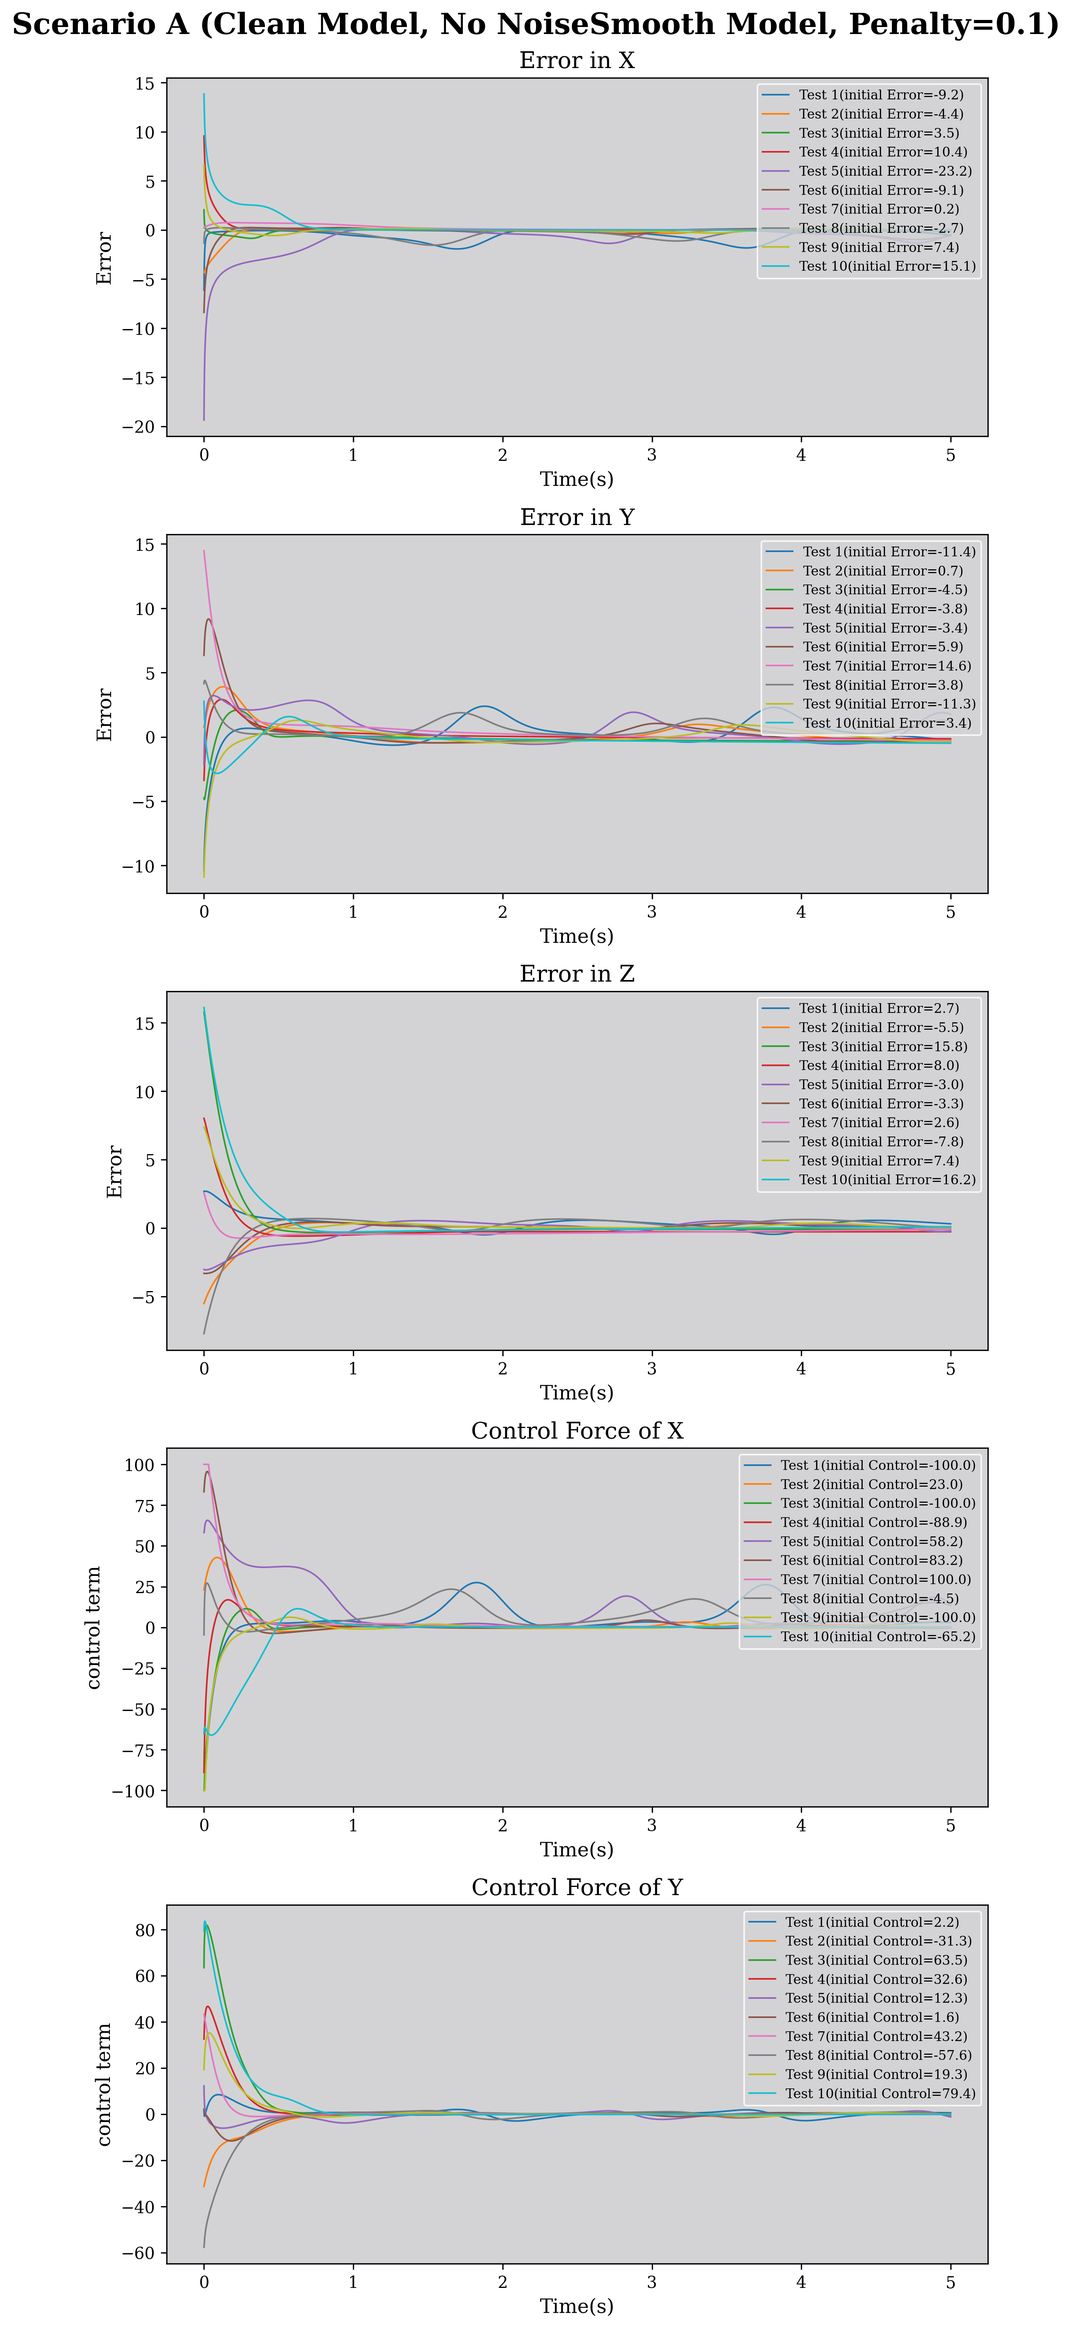
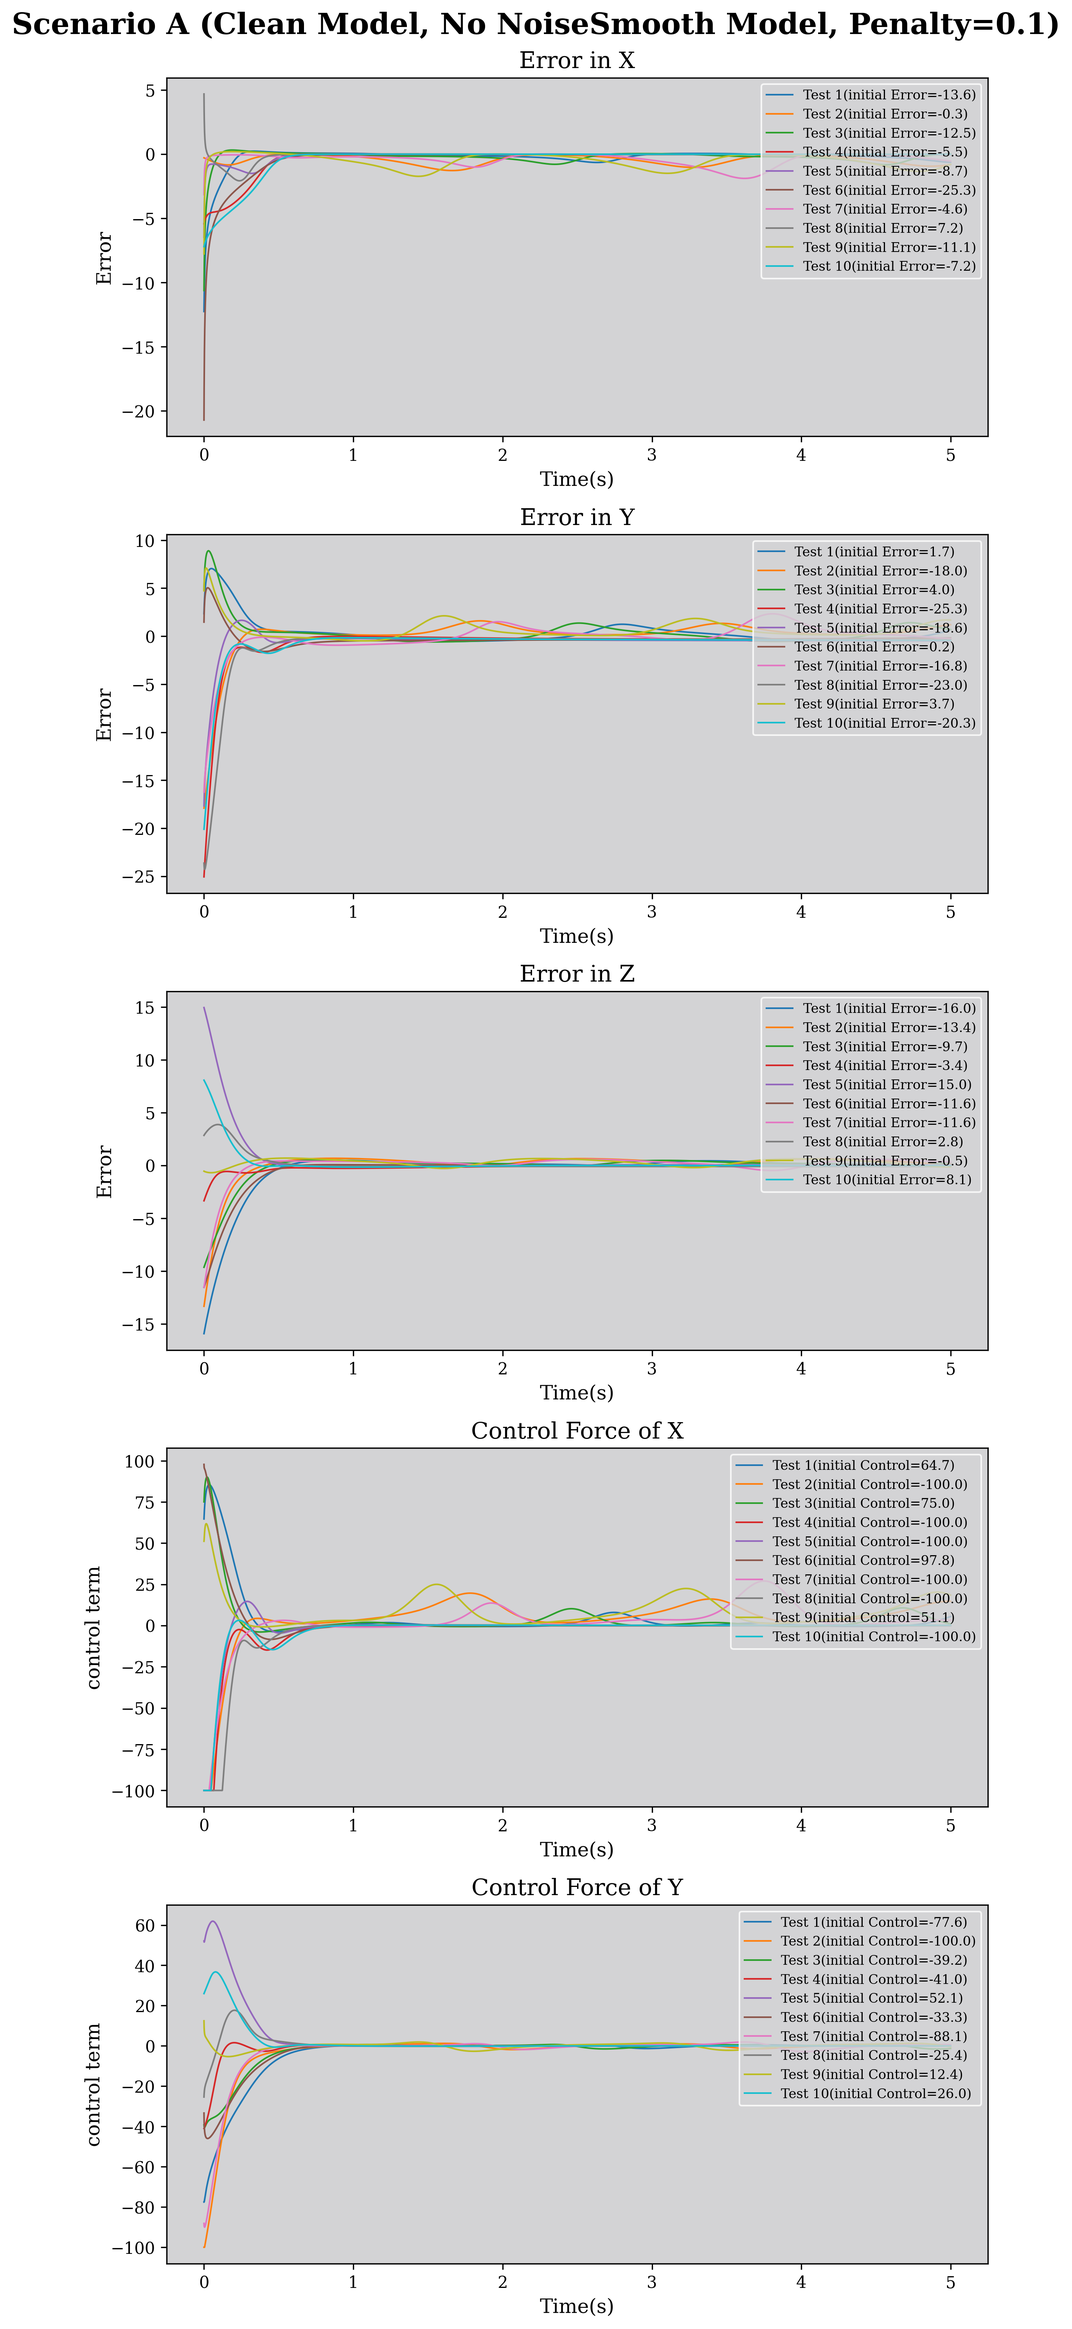
帧堆叠和简单滤波

diff --git a/code/lorenz_filter/test_evaluate.py b/code/lorenz_filter/test_evaluate.py
@@ -4,8 +4,9 @@ from matplotlib.axes import Axes
 
 # 1. 获取当前代码文件 (main_script.py) 所在的绝对路径目录
 current_dir = os.path.dirname(os.path.abspath(__file__))
+parent_dir=os.path.dirname(current_dir)
 # 2. 拼凑出 gym-lorenz 的绝对路径
-gym_lorenz_path = os.path.join(current_dir, 'gym-lorenz')
+gym_lorenz_path = os.path.join(parent_dir, 'gym-lorenz')
 
 # 3. 把拼出来的路径插到环境变量里
 sys.path.append(gym_lorenz_path)
@@ -44,7 +45,9 @@ from stable_baselines3 import DDPG, A2C, SAC, PPO
 from stable_baselines3.common.evaluation import evaluate_policy
 from stable_baselines3.common.noise import NormalActionNoise
 from stable_baselines3.common.torch_layers import BaseFeaturesExtractor
-from stable_baselines3.common.vec_env import SubprocVecEnv, DummyVecEnv
+from stable_baselines3.common.vec_env import SubprocVecEnv, DummyVecEnv, VecFrameStack
+from env_utils import make_env
+
 
 # 注意：关于 MlpPolicy 的导入已经删掉。
 # 请在后续代码中直接使用字符串，如： model = DDPG("MlpPolicy", env)
@@ -93,7 +96,9 @@ def test_and_evaluate(model_path, add_noise, title):
 
     # 1. 初始化环境
     # 测试时，明确告诉环境：“现在是考试时间，请锁定噪声难度！”
-    env = gymnasium.make("lorenz_try-v0",add_noise=add_noise, eval_mode=True)  # 这里直接在 make 时传参，简化代码
+    env=DummyVecEnv([lambda:make_env(add_noise=add_noise,add_filter=True,eval_mode=True)])  # 这里直接在 make 时传参，简化代码
+    # 再套上 SB3 专属的 VecFrameStack (假设堆叠 4 帧)
+    env = VecFrameStack(env, n_stack=4)
     # 2. 尝试加载模型
     try:
         model = PPO.load(model_path,env, device='cpu')
@@ -104,37 +109,39 @@ def test_and_evaluate(model_path, add_noise, title):
     all_tests_data = [] # 用来给画图函数用的
     steady_errors = []  # 用来算 MAE 和 RMSE 的 (去掉前1000步)
 
+    ORIG_OBS_DIM = 6
+
     # 3. 跑 10 次独立测试
     for test_idx in range(10):
-        obs,_=env.reset()
+        obs=env.reset()
 
         # 准备一个小本子，记录当前这 1 次测试的所有过程
         test_record = {'time': [], 'err_x': [], 'err_y': [], 'err_z': [], 'ctrl_x': [], 'ctrl_y': []}
-        test_record['init_err_x'] = obs[0]*50
-        test_record['init_err_y'] = obs[1]*50
-        test_record['init_err_z'] = obs[2]*50
+        test_record['init_err_x'] = obs[0,-ORIG_OBS_DIM+0]*50
+        test_record['init_err_y'] = obs[0,-ORIG_OBS_DIM+1]*50
+        test_record['init_err_z'] = obs[0,-ORIG_OBS_DIM+2]*50
         first_action_recorded = False
 
         # 跑 5000 步
         for step in range(5000):
             action, _ = model.predict(obs, deterministic=True)
-            obs, _, _, _, _ = env.step(action)
+            obs, _, _, _= env.step(action)
             # 记录测试数据
             test_record['time'].append(step*0.001)  # 记录时间，单位秒
-            test_record['err_x'].append(obs[0]*50)  # 乘回去，记录真实误差
-            test_record['err_y'].append(obs[1]*50)  # 乘回去，记录真实误差
-            test_record['err_z'].append(obs[2]*50)  # 乘回去，记录真实误差
-            test_record['ctrl_x'].append(action[0]*100)
-            test_record['ctrl_y'].append(action[1]*100)
+            test_record['err_x'].append(obs[0,-ORIG_OBS_DIM+0]*50)  # 乘回去，记录真实误差
+            test_record['err_y'].append(obs[0,-ORIG_OBS_DIM+1]*50)  # 乘回去，记录真实误差
+            test_record['err_z'].append(obs[0,-ORIG_OBS_DIM+2]*50)  # 乘回去，记录真实误差
+            test_record['ctrl_x'].append(action[0,0]*100)
+            test_record['ctrl_y'].append(action[0,1]*100)
 
             if not first_action_recorded:
-                test_record['init_ctrl_x'] = action[0]*100
-                test_record['init_ctrl_y'] = action[1]*100
+                test_record['init_ctrl_x'] = action[0,0]*100
+                test_record['init_ctrl_y'] = action[0,1]*100
                 first_action_recorded = True
 
             # 如果过了前 1000 步（1秒），系统稳定了，就把误差存起来算 MAE
             if step >= 1000:
-                real_error=obs[:3]*50
+                real_error=obs[0,-ORIG_OBS_DIM : -ORIG_OBS_DIM + 3]*50
                 steady_errors.append(real_error)  # 记录稳定阶段的误差，用于后续计算 MAE 和 RMSE
         
         all_tests_data.append(test_record)
@@ -154,21 +161,21 @@ def test_and_evaluate(model_path, add_noise, title):
 # ==========================================
 def main():
     # 填入你的模型路径
-    clean_model_path = "hr_paper_final_model_smooth.zip"      
-    noisy_model_path = "hr_paper_noisy_model_smooth.zip"      
+    clean_model_path = "hr_paper_final_model_filter.zip"      
+    noisy_model_path = "hr_paper_noisy_model_filter.zip"      
 
     results = []
 
     # 场景 A: 干净模型 测 干净环境
-    mae1, rmse1 = test_and_evaluate(clean_model_path, add_noise=False, title="Scenario A (Clean Model, No NoiseSmooth Model, Penalty=0.1)")
+    mae1, rmse1 = test_and_evaluate(clean_model_path, add_noise=False, title="Scenario A (Clean Model, No Noise filter)")
     results.append(["Testing without noise", mae1, rmse1])
 
     # 场景 B: 干净模型 测 噪声环境 (脆弱性测试)
-    mae2, rmse2 = test_and_evaluate(clean_model_path, add_noise=True, title="Scenario B (Clean Model with NoiseSmooth Model, Penalty=0.1)")
+    mae2, rmse2 = test_and_evaluate(clean_model_path, add_noise=True, title="Scenario B (Clean Model with Noise filter)")
     results.append(["Testing with noise (training without noise)", mae2, rmse2])
 
     # 场景 C: 噪声模型 测 噪声环境 (鲁棒性展示)
-    mae3, rmse3 = test_and_evaluate(noisy_model_path, add_noise=True, title="Scenario C (Robust Model with NoiseSmooth Model, Penalty=0.1)")
+    mae3, rmse3 = test_and_evaluate(noisy_model_path, add_noise=True, title="Scenario C (Robust Model with Noise filter)")
     results.append(["Testing with noise (training with noise)", mae3, rmse3])
 
     # --- 打印和保存最终的对比表格 ---
@@ -180,8 +187,8 @@ def main():
     print(df.to_string(index=False))
     print("="*60)
     
-    df.to_csv("table_2_results.csv", index=False)
-    print("✅ 数据已保存至 table_2_results.csv")
+    df.to_csv("table_3_results.csv", index=False)
+    print("✅ 数据已保存至 table_3_results.csv")
 
 if __name__ == "__main__":
     main()

diff --git a/code/lorenz_filter/train.py b/code/lorenz_filter/train.py
@@ -1,0 +1,134 @@
+
+import sys
+from matplotlib.axes import Axes
+from pathlib import Path
+
+# 1. 获取当前文件的绝对路径
+current_dir =Path(__file__).resolve()
+# 2. .parent 是 lorenz_filter，.parent.parent 就是 code 目录
+# 3. 直接用 / 符号拼接子目录名
+gym_lorenz_path=current_dir.parent.parent / "gym-lorenz"
+
+# 4. 转换回字符串并加入环境变量
+sys.path.append(str(gym_lorenz_path))
+
+# 现在放心导入吧！
+
+import time
+
+# ==========================================
+# 1. 基础科学计算与数据处理库
+# ==========================================
+import numpy as np
+import pandas as pd
+import networkx as nx
+import math
+
+# ==========================================
+# 2. 深度学习底层库
+# ==========================================
+import torch 
+import torch.nn as nn
+
+# ==========================================
+# 3. 可视化库 (Matplotlib)
+# ==========================================
+import matplotlib.pyplot as plt
+from matplotlib.font_manager import FontProperties
+from matplotlib.ticker import FuncFormatter
+
+# ==========================================
+# 4. 强化学习相关库 (Gym & Stable Baselines3)
+# ==========================================
+import gym_lorenz  # 自定义环境
+import gymnasium  # 最新版本的 Gym
+from stable_baselines3 import DDPG, A2C, SAC, PPO
+from stable_baselines3.common.evaluation import evaluate_policy
+from stable_baselines3.common.noise import NormalActionNoise
+from stable_baselines3.common.torch_layers import BaseFeaturesExtractor
+from stable_baselines3.common.vec_env import SubprocVecEnv, DummyVecEnv, VecFrameStack
+from env_utils import make_env
+
+# 注意：关于 MlpPolicy 的导入已经删掉。
+# 请在后续代码中直接使用字符串，如： model = DDPG("MlpPolicy", env)
+
+class AttentionFeaturesExtractor(BaseFeaturesExtractor):
+    """
+    改进版的自注意力特征提取器：将隐藏特征切分为序列，使注意力机制真正生效。
+    """
+    def __init__(self, observation_space: gymnasium.spaces.Box, features_dim: int = 64):
+        super().__init__(observation_space, features_dim)
+        # 1. 基础特征提取
+        # 假设我们将输入映射到一个可以被整除的隐藏维度，比如 128
+        
+        self.hidden_dim = 128
+        self.fc1=nn.Linear(observation_space.shape[0], self.hidden_dim)  # 从输入维度到隐藏维度
+
+        # 【关键改进点】: 定义序列切分规则
+        # 我们把 128 维的特征，切分成 8 个 "Token"，每个 "Token" 维度是 16
+        self.seq_len = 8
+        self.token_dim = 16
+
+        # 2. 定义一个自注意力层
+        self.attention_layer = nn.MultiheadAttention(
+            embed_dim=self.token_dim, num_heads=4, batch_first=True)
+        # 3. 后处理层：将注意力融合后的序列展平，映射到最终的 features_dim
+        self.post_attention_fc=nn.Sequential(
+            nn.Linear(self.hidden_dim, self.features_dim),
+            nn.ReLU())  # 从隐藏维度到最终特征维度
+    def forward(self, observations: torch.Tensor) -> torch.Tensor:
+        """
+        :param observations: (batch_size, obs_dim)
+        :return: (batch_size, features_dim)
+        """
+        # 1. 基础特征提取
+        x = torch.relu(self.fc1(observations))  # [batch_size, hidden_dim]
+        # 第二步：重塑为序列 (Reshape)
+        # 将 [batch_size, 128] 变成 [batch_size, 8, 16]
+        # 这样就有 8 个不同的元素可以互相计算注意力了！
+        x_seq=x.view(-1,self.seq_len,self.token_dim)  # [batch_size, seq_len, token_dim]
+        # 3. 自注意力层
+        # 这时，8个特征块之间会产生动态的权重分配，理论上可以捕捉到输入特征之间更复杂的关系
+        attn_output, _ = self.attention_layer(x_seq, x_seq, x_seq)  # Self-Attention
+        # 第四步：将序列重新展平回 [batch_size, 128]
+        x_flattened = attn_output.reshape(-1, self.hidden_dim)  # [batch_size, hidden_dim]
+        # 第五步：输出最终特征
+        features = self.post_attention_fc(x_flattened)  # [batch_size, features_dim]
+        return features
+
+
+def train_model(model_class, total_timesteps=1000000,add_noise=False,add_filter=False):
+    # 这里直接在 make 时传参，简化代码
+
+    env=DummyVecEnv([lambda:make_env(add_noise=add_noise,add_filter=add_filter)])
+    # from stable_baselines3.common.env_util import make_vec_env
+    # # 一行代码搞定，自动使用 DummyVecEnv，如果要多线程只要修改 n_envs=4
+    # env = make_vec_env('lorenz_transient-v0', n_envs=1)
+
+    # 再套上 SB3 专属的 VecFrameStack (假设堆叠 4 帧)
+    env = VecFrameStack(env, n_stack=4)
+    # 1. 合并 policy_kwargs，避免覆盖
+    policy_kwargs = dict(
+        features_extractor_class=AttentionFeaturesExtractor,
+        features_extractor_kwargs=dict(features_dim=64),
+        # 注意：在较新的 stable-baselines3 版本中，net_arch 的字典不需要包在 list 里
+        net_arch=dict(pi=[128, 128], vf=[128, 128]) 
+    )
+    model = model_class("MlpPolicy", env, learning_rate=3e-4,      # 降低学习率，走稳一点
+    n_steps=2048,            # 每次更新采集更多样本
+    batch_size=64,           # 减小 Batch 增加更新频率
+    gae_lambda=0.95,         # 稳定优势估计
+    verbose=1,
+    # tensorboard_log="./lorenztensorboard1/",  # 添加 TensorBoard 日志路径
+    device='cpu')
+    print("正在训练论文版模型，请稍候...")
+    model.learn(total_timesteps=total_timesteps)
+    if add_noise:
+        model.save("hr_paper_noisy_model_filter") # 这会生成一个 .zip 文件
+    else:
+        model.save("hr_paper_final_model_filter") # 这会生成一个 .zip 文件
+    print("训练成功！模型已保存为 zip")
+
+if __name__ == "__main__":
+    train_model(PPO, total_timesteps=500000, add_noise=False,add_filter=True)  # 训练无噪声版本
+    train_model(PPO, total_timesteps=500000, add_noise=True,add_filter=True)  # 训练有噪声版本

diff --git a/code/gym-lorenz/gym_lorenz/envs/lorenz_env_try.py b/code/gym-lorenz/gym_lorenz/envs/lorenz_env_try.py
@@ -16,10 +16,11 @@ class HRSyncEnv(gym.Env):
     Master 系统: 自由运行
     Slave 系统: 受 RL Agent 控制
     """
-    def __init__(self, add_noise=False, eval_mode=False):
+    def __init__(self, add_noise=False, eval_mode=False,add_filter=False):
         super().__init__()
         self.add_noise = add_noise  # 开关：是否添加噪声
         self.eval_mode = eval_mode  # 开关：是否为评估模式
+        self.add_filter = add_filter  # 开关：是否启用动作滤波器
         
         # 1. 定义动作空间: 连续值，代表控制电流 u
         # 假设控制电流范围在 [-1.0, 1.0] 之间
@@ -35,6 +36,9 @@ class HRSyncEnv(gym.Env):
         self.dt = 0.001  # 仿真步长
         self.sigma=0.0 # 噪声强度，默认不添加噪声
         
+        # 🌟 仅新增：动作滤波器的记忆变量和系数
+        self.action_alpha = 0.95  # 动作平滑系数 (调参重点！不能太小，否则动作有延迟会导致无法同步)
+        self.filtered_action = np.zeros(2, dtype=np.float32) # 记忆上一步的平滑动作
         self.state_master = None # [x1, x2, x3]
         self.state_slave = None  # [y1, y2, y3]
         # --- 新增：步数计数器 ---
@@ -51,6 +55,8 @@ class HRSyncEnv(gym.Env):
         self.state_master = np.random.uniform(-10, 20, 3)
         # Slave 系统初始值（给它一个较大的初始偏差）
         self.state_slave = np.random.uniform(-10, 20, 3)
+         # 🌟 新增：重置环境时，动作滤波器的记忆也要清零
+        self.filtered_action = np.zeros(2, dtype=np.float32)
         if self.add_noise:
             # 每次重置环境，噪声强度都变一下，范围 [0, 2]
             if self.eval_mode:
@@ -73,7 +79,11 @@ class HRSyncEnv(gym.Env):
 
     def step(self, action):
         # # self.current_step += 1
-        
+        # 🌟 核心防线 2：出口防线 (动作滤波)
+        # 拿到网络给出的狂躁 action，做平滑处理！
+        # ==========================================
+        if self.add_filter:
+            action = (1 - self.action_alpha) * self.filtered_action + self.action_alpha * action
         # 映射动作
         # --- 关键修改：手动将 [-1, 1] 映射到 [-100, 100] ---
         # 假设网络输出的是 raw_action
@@ -150,7 +160,7 @@ class HRSyncEnv(gym.Env):
         # 为什么要用真实误差？因为我们需要物理意义上的收敛。
         # 如果用归一化误差，Reward 数值太小，可能需要调整权重。
         # 这里的 0.050 * action^2 是惩罚 [-1,1] 的动作输出，是合理的
-        reward = -np.sum(np.abs(normalized_error))- 0.100 * np.sum(np.square(action))
+        reward = -np.sum(np.abs(normalized_error))- 0.050 * np.sum(np.square(action))
         
         # 4. 判断结束条件
         # 通常混沌同步训练会跑固定的步数，或者误差过大时强制停止
@@ -166,16 +176,16 @@ class HRSyncEnv(gym.Env):
         
         return obs_6d.astype(np.float32), float(reward), terminated, truncated, {}
 
-if __name__ == "__main__":
-    env = HRSyncEnv(add_noise=False)  # 启用噪声
-    model = PPO("MlpPolicy", env, learning_rate=3e-4,      # 降低学习率，走稳一点
-    n_steps=2048,            # 每次更新采集更多样本
-    batch_size=64,           # 减小 Batch 增加更新频率
-    gae_lambda=0.95,         # 稳定优势估计
-    verbose=1,
-    device='cpu')
-    print("正在训练论文版模型，请稍候...")
-        #  100 万步
-    model.learn(total_timesteps=1000000)
-    model.save("hr_paper_final_model") # 这会生成一个 .zip 文件
-    print("训练成功！模型已保存为 hr_paper_final_model.zip")
+# if __name__ == "__main__":
+#     env = HRSyncEnv(add_noise=False)  # 启用噪声
+#     model = PPO("MlpPolicy", env, learning_rate=3e-4,      # 降低学习率，走稳一点
+#     n_steps=2048,            # 每次更新采集更多样本
+#     batch_size=64,           # 减小 Batch 增加更新频率
+#     gae_lambda=0.95,         # 稳定优势估计
+#     verbose=1,
+#     device='cpu')
+#     print("正在训练论文版模型，请稍候...")
+#         #  100 万步
+#     model.learn(total_timesteps=1000000)
+#     model.save("hr_paper_final_model") # 这会生成一个 .zip 文件
+#     print("训练成功！模型已保存为 hr_paper_final_model.zip")

diff --git a/code/lorenz_filter/env_utils.py b/code/lorenz_filter/env_utils.py
@@ -1,0 +1,26 @@
+import sys
+from pathlib import Path
+current_dir=Path(__file__).parent.resolve()
+
+gym_lorenz_path=current_dir.parent.parent/"gym-lorenz"
+
+sys.path.append(str(gym_lorenz_path))
+
+import gym_lorenz
+import gymnasium
+from gymnasium.wrappers import FrameStackObservation
+
+def make_env(add_noise=False,eval_mode=False,add_filter=False,use_frame_stack=True):
+    """
+    这个函数的作用是创建一个新的环境实例，并且可以通过参数来控制是否添加噪声、是否进入评估模式，以及是否启用动作滤波器。
+    
+    参数说明：
+    - add_noise: 布尔值，控制是否在环境中添加噪声。训练时可以随机添加不同强度的噪声，评估时可以锁定在最高难度。
+    - eval_mode: 布尔值，控制环境是否进入评估模式。评估模式下，噪声强度固定，保证公平对待每一个模型。
+    - add_filter: 布尔值，控制是否启用动作滤波器。启用后，环境会对 RL Agent 输出的动作进行平滑处理，防止过于激烈的动作导致系统发散。
+    """
+    env=gymnasium.make("lorenz_try-v0",
+                       add_noise=add_noise,
+                       eval_mode=eval_mode,
+                       add_filter=add_filter)
+    return env
